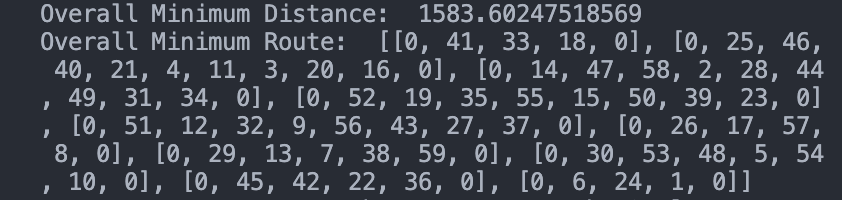
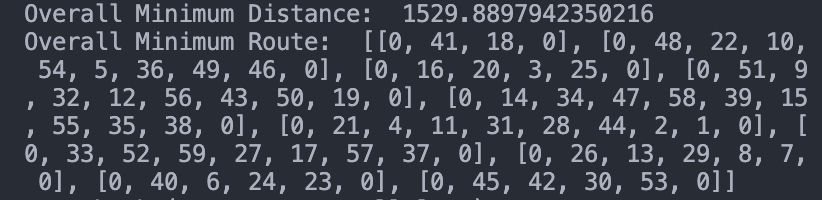
ACO report updated

diff --git a/CVRP/try.py b/CVRP/try.py
@@ -1,0 +1,39 @@
+import matplotlib.pyplot as plt
+import numpy as np
+from CVRP import AntColonyOptimization
+
+
+iterations = 50
+numAnts = 30
+def main():
+    minlst = []
+    avglst = []
+    aco = AntColonyOptimization(4, 4, iterations, numAnts, 0.5, "A-n60-k9")
+    aco.AntColonySimulation(initialize=True)
+    aco.tau = aco.computeTau()
+    for i in range(iterations):
+        aco.AntColonySimulation(initialize=False)
+        aco.updateTau()
+        minlst.append(aco.minDistance)
+        avglst.append(np.average(aco.avgDistances))
+    print("Overall Minimum Distance: ", aco.minDistance)
+    print("Overall Minimum Route: ", aco.minRoute)
+    return minlst, avglst, aco.minDistance, aco.minRoute
+    
+minDist = np.inf
+minRoute = None
+for i in range(20):
+    minl, avgl, minD, minR = main()
+    if minD < minDist:
+        minDist = minD
+        minRoute = minR
+        minlst, avglst = minl, avgl
+plt.plot([i for i in range(1, iterations+1)], minlst, label="min")
+plt.plot([i for i in range(1, iterations+1)], avglst, label="avg")
+# plt.xlabel('generation')
+# plt.title('Plot of average fitness against generations')
+plt.xlabel('iteration')
+plt.title('Plot of average fitness against iterations')
+plt.ylabel('fitness')
+plt.legend()
+plt.show()

diff --git a/report/main.tex b/report/main.tex
@@ -59,7 +59,7 @@ The first step is to initialize the parameters of the algorithm. The parameters 
 \end{enumerate}
 
 \subsubsection{Ants' construction}
-In this step, the ants are initialized with random routes in the first iteration and in the next iteration they start constructing their routes. The ants are initialized at the depot and they move to the next node based on the following formula:
+In this step, the ants are initialized with random routes in the first iteration and in the next iterations they start constructing their routes. The ants are initialized at the depot and they move to the next node based on the following formula:
 \begin{equation}
   P(i,j) = \frac{\tau_{i,j}^\alpha \eta_{i,j}^\beta}{\sum_{k \in \texttt{allowed}} \tau_{i,k}^\alpha \eta_{i,k}^\beta}
 \end{equation}
@@ -118,7 +118,7 @@ The minimum distance that we could achieve for this dataset was 1118.325. The fo
 \end{figure}
 
 \subsubsection{A-n60-k9}
-The minimum distance that we could achieve for this dataset was 1583.603. The following is the route that we found:
+The minimum distance that we could achieve for this dataset was 1529.890. The following is the route that we found:
 \begin{figure}[H]
   \centering
   \includegraphics[width=1\linewidth]{images/min_dist_n60-k9.png}
